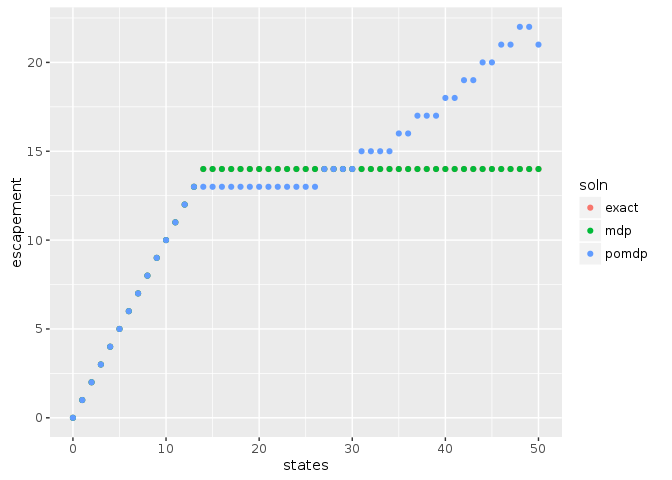
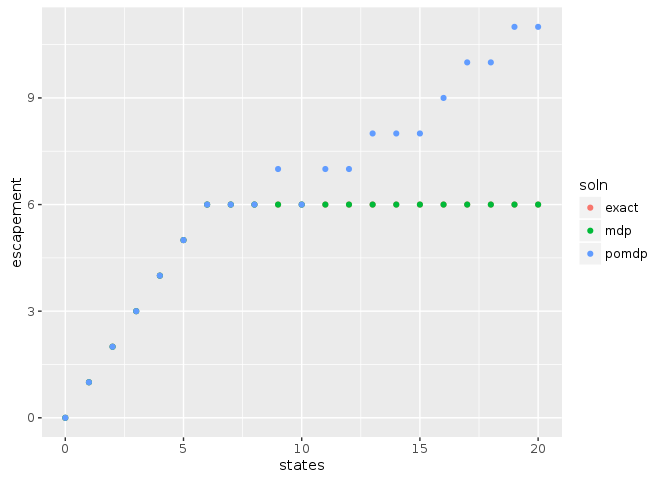
precision 20

diff --git a/inst/examples/fisheries-ex.md b/inst/examples/fisheries-ex.md
@@ -3,6 +3,21 @@
 
 ```r
 library("MDPtoolbox")
+```
+
+```
+## Loading required package: Matrix
+```
+
+```
+## Loading required package: linprog
+```
+
+```
+## Loading required package: lpSolve
+```
+
+```r
 library("appl")
 knitr::opts_chunk$set(cache = TRUE)
 ```
@@ -12,13 +27,17 @@ knitr::opts_chunk$set(cache = TRUE)
 
 
 ```r
-states <- 0:50
+states <- 0:20
 actions <- states
-f <- function(x, h, r = 1, K = 33){
+f <- function(x, h, r = 1, K = 15){
   s <- pmax(x - h, 0)
   s * exp(r * (1 - s / K) )
 }
-sigma_g <- 0.2
+
+sigma_g = 0.5
+
+# Scale for lognormal
+sigma_g <- sqrt(log(1 + sigma_g / 6))
 reward_fn <- function(x,h) pmin(x,h)
 discount <- 0.95
 ```
@@ -85,9 +104,9 @@ mdp <- MDPtoolbox::mdp_policy_iteration(transition, reward, discount)
 
 
 ```r
-sigma_m = 0.2
+sigma_m <- sigma_g
 observed_states <- states
-n_z = length(observed_states)
+n_z <- length(observed_states)
 
 observation <- array(0, dim = c(n_s, n_z, n_a))
 for (k in 1:n_a) {
@@ -116,12 +135,12 @@ for (k in 1:n_a) {
 ```r
 ## Note: parallel doesn't error intelligably and cannot be interrupted gracefully either. Debug by running:
 #system.time(soln <- pomdp(transition, observation, reward, discount, stdout = TRUE))
-system.time( soln <- pomdp(transition, observation, reward, discount, mc.cores = parallel::detectCores(), precision = 1, memory = 1500) )
+system.time( soln <- pomdp(transition, observation, reward, discount, mc.cores = parallel::detectCores(), precision = 20, memory = 1000) )
 ```
 
 ```
-##       user     system    elapsed 
-## 667487.073   1243.044  19681.422
+##    user  system elapsed 
+##  26.028   1.263   5.487
 ```
 
 ```r
@@ -131,6 +150,20 @@ policies <- data.frame(states = states,
                        pomdp = states - soln$policy)
 
 library("tidyr")
+```
+
+```
+## 
+## Attaching package: 'tidyr'
+```
+
+```
+## The following object is masked from 'package:Matrix':
+## 
+##     expand
+```
+
+```r
 library("ggplot2")
 tidyr::gather(policies, soln, escapement, -states) %>%
   ggplot2::ggplot(ggplot2::aes(states, escapement, col = soln)) + ggplot2::geom_point()
